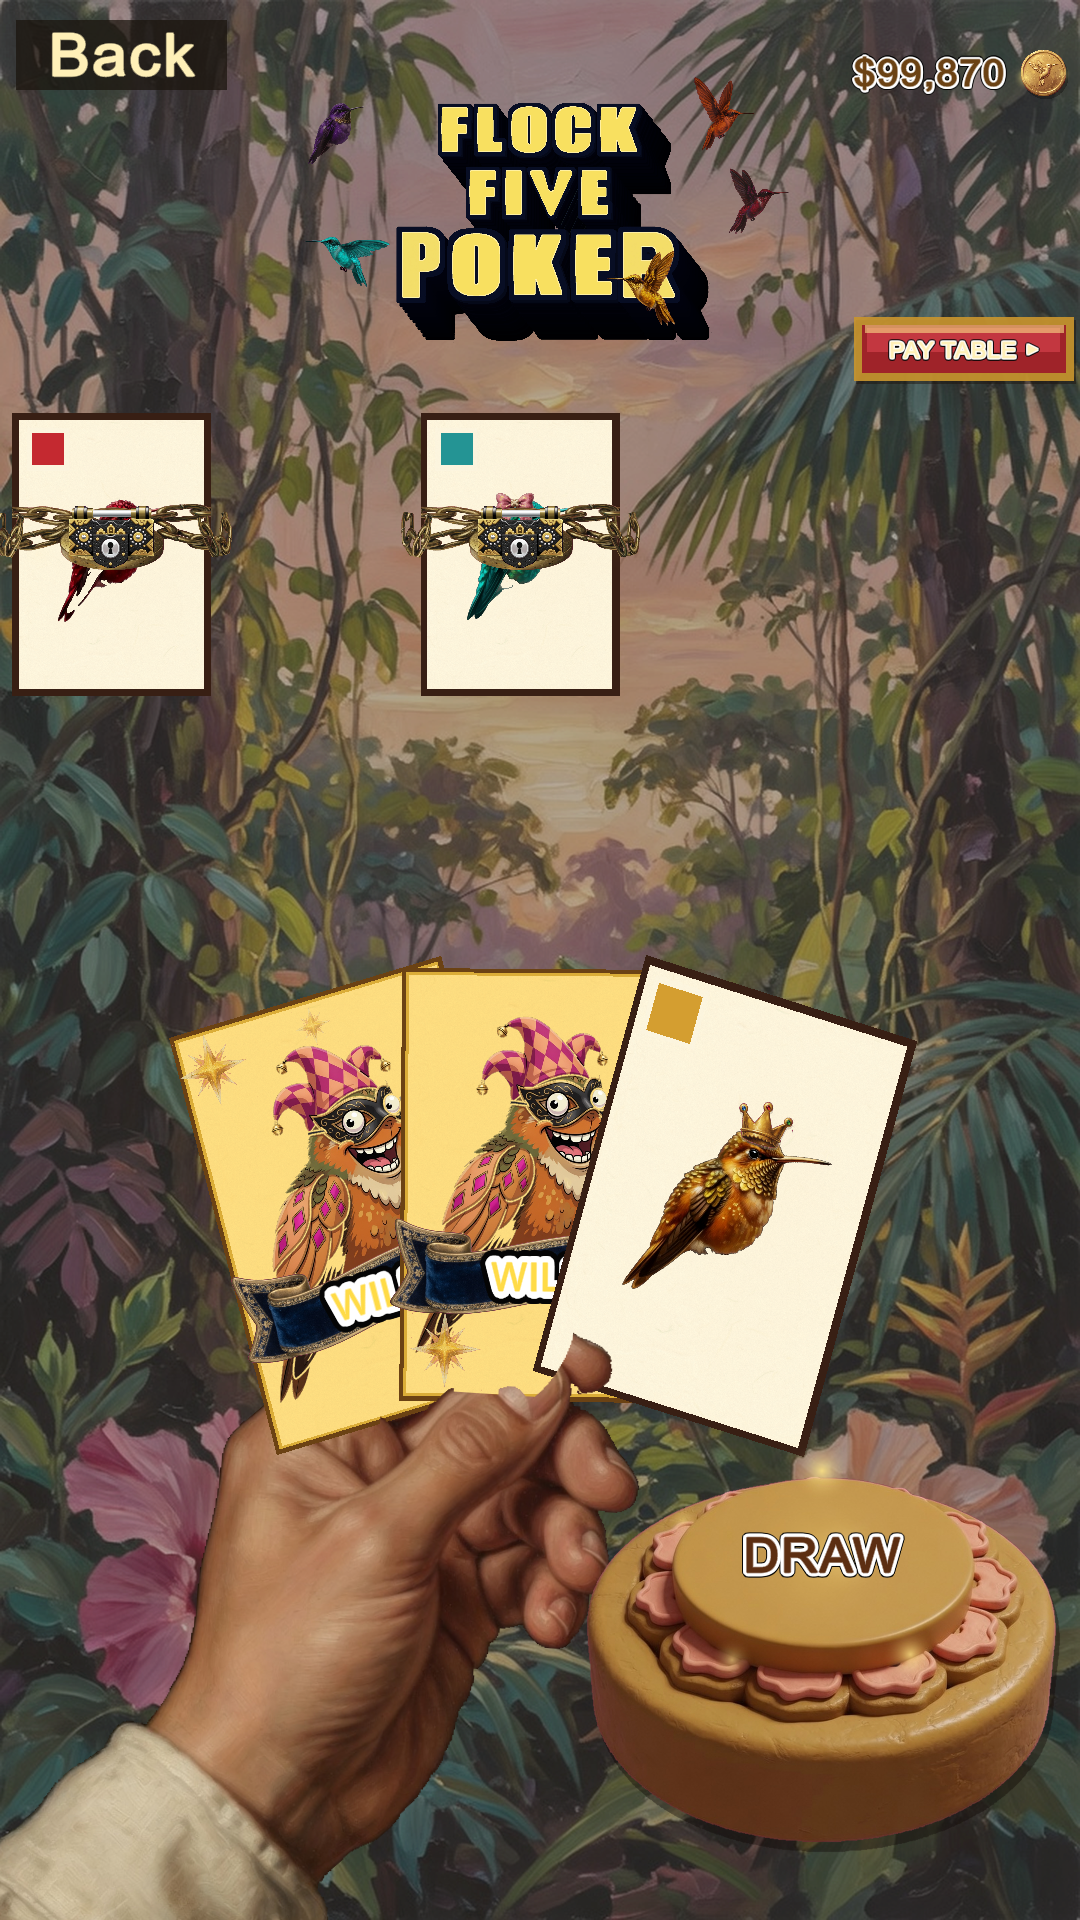
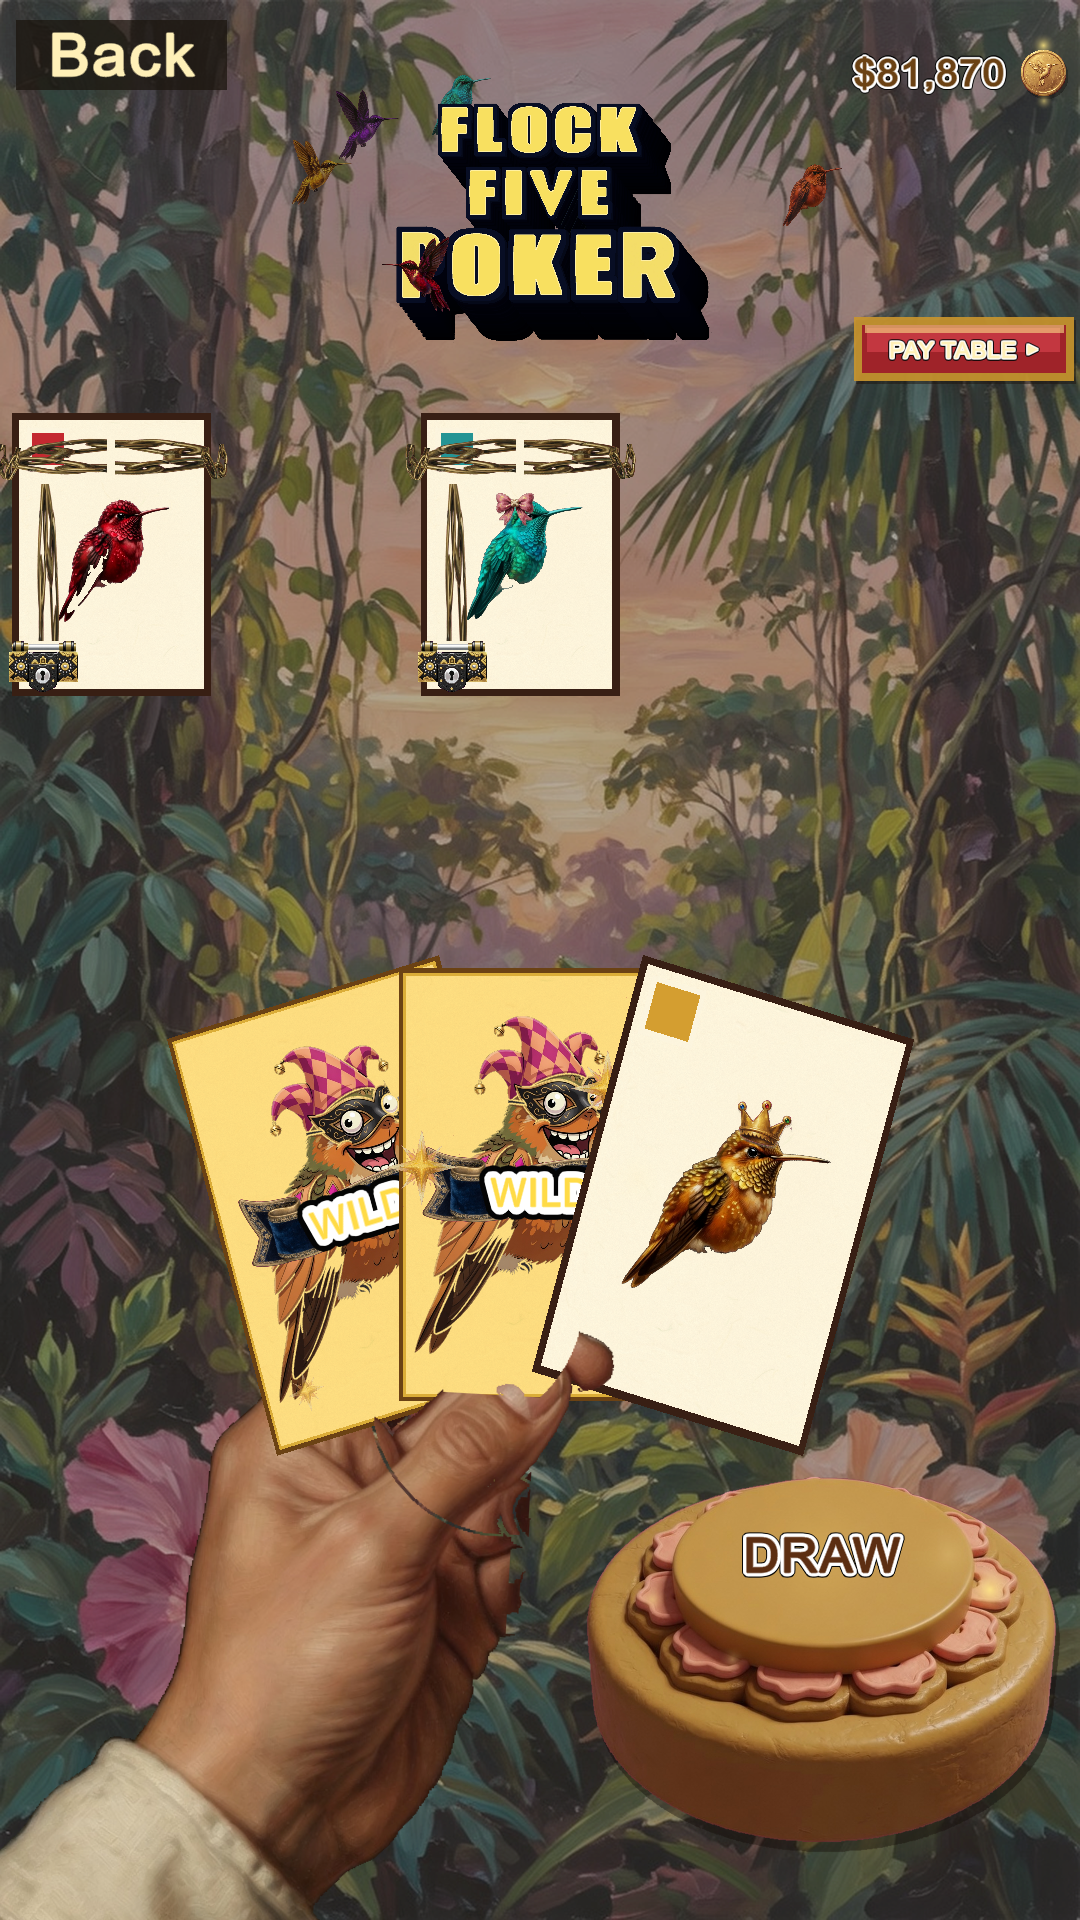
Poker: pass 6 — dangling lock at card foot, thumb always top
Chain wrap sits high; a hang drops left of WILD so the padlock
lands at the bottom edge. Wild ribbon stays mid-card and readable.
Back sprite is palm/sleeve only — other fingers stay behind the
packet. Front is the thumb pad, drawn last after every live card.
Sleeve dest still originates off the left/bottom. Avoid kept.

Playrun DONE 3/3, mid=0.

diff --git a/Assets/_Project/Scripts/App/FlockFiveApp.cs b/Assets/_Project/Scripts/App/FlockFiveApp.cs
@@ -1011,7 +1011,7 @@ namespace FlockFive
         {
             System.IO.Directory.CreateDirectory(dir);
             SpriteCatalog.DropPokerArt();
-            Debug.Log("Flock Five: ShotPokerFaces start " + dir + " pass5-locks-thumb-arm");
+            Debug.Log("Flock Five: ShotPokerFaces start " + dir + " pass6-dangle-thumb-top");
             _home = HomeFace.Poker;
             _splash = true;
             _pokerPayOpen = false;
@@ -4249,7 +4249,6 @@ namespace FlockFive
                     var seat = new Rect(rowX + i * (cardW + gap), rowY, cardW, cardH);
                     DrawPokerCard(seat, i, s, holdH, rowBox);
                 }
-                DrawPokerFanHand(rowBox, cardW, cardH, s, true);
                 for (int o = 0; o < order.Length; o++)
                 {
                     int i = order[o];
@@ -4260,6 +4259,8 @@ namespace FlockFive
                 DrawPokerKeepHint(rowBox, s);
                 DrawPokerFlames(rowBox, cardH, s);
                 DrawPokerDealHand(rowBox, cardW, cardH, s);
+                // Thumb last — pinching agent stays on top of every live fan card.
+                DrawPokerFanHand(rowBox, cardW, cardH, s, true);
             }
 
             float actX = Screen.width - Mathf.Max(10f, Screen.width - safe.xMax + 8f) - btnSize;
@@ -5423,14 +5424,14 @@ namespace FlockFive
             float x = pinchX - w * PokerFanPinchU;
             float y = pinchY - h * PokerFanPinchV + (1f - u) * h * 0.35f;
             // Sleeve originates off the left/bottom. Keep the pinch locked.
-            if (x > -6f)
+            if (x > -28f)
             {
-                w = (pinchX + 6f) / Mathf.Max(0.12f, PokerFanPinchU);
+                w = (pinchX + 28f) / Mathf.Max(0.12f, PokerFanPinchU);
                 h = w / PokerFanHandAspect;
                 x = pinchX - w * PokerFanPinchU;
                 y = pinchY - h * PokerFanPinchV + (1f - u) * h * 0.35f;
             }
-            float needH = (Screen.height + 10f - pinchY) / Mathf.Max(0.12f, 1f - PokerFanPinchV);
+            float needH = (Screen.height + 36f - pinchY) / Mathf.Max(0.12f, 1f - PokerFanPinchV);
             if (h < needH)
             {
                 h = needH;
@@ -5526,8 +5527,8 @@ namespace FlockFive
             if (!_pokerChained && _pokerChainBreak < 0f) return;
             var spr = SpriteCatalog.Chain;
             var tex = spr != null ? spr.texture : null;
-            float h = Mathf.Clamp(wrap.height * 0.24f, 24f * s, 44f * s);
-            float midY = wrap.y + wrap.height * 0.44f;
+            float h = Mathf.Clamp(wrap.height * 0.16f, 20f * s, 34f * s);
+            float midY = wrap.y + wrap.height * 0.18f;
             // End loops live behind the card; lock + inner links sit on the face.
             var back = new Rect(wrap.center.x - wrap.width * 0.68f, midY - h * 0.40f, wrap.width * 1.36f, h * 0.80f);
             var front = new Rect(wrap.x, midY - h * 0.50f, wrap.width, h);
@@ -5602,10 +5603,12 @@ namespace FlockFive
                 GUI.color = Color.white;
                 return;
             }
-            // Lock and inner links on the face — end loops stay on the back.
+            // High wrap — links only, skip the baked lock in the chain sheet.
             GUI.color = Color.white;
-            GUI.DrawTextureWithTexCoords(front, tex, new Rect(0.20f, 0f, 0.60f, 1f));
-            // Short links turning around each side, joining front to back.
+            var wrapL = new Rect(front.x, front.y, front.width * 0.48f, front.height);
+            var wrapR = new Rect(front.xMax - front.width * 0.48f, front.y, front.width * 0.48f, front.height);
+            GUI.DrawTextureWithTexCoords(wrapL, tex, new Rect(0.02f, 0f, 0.16f, 1f));
+            GUI.DrawTextureWithTexCoords(wrapR, tex, new Rect(0.82f, 0f, 0.16f, 1f));
             float sideH = front.height * 0.70f;
             float sideW = front.height * 0.62f;
             var prev = GUI.matrix;
@@ -5617,18 +5620,30 @@ namespace FlockFive
             GUIUtility.RotateAroundPivot(78f, new Vector2(card.xMax, front.center.y));
             GUI.DrawTextureWithTexCoords(right, tex, new Rect(0.82f, 0f, 0.16f, 1f));
             GUI.matrix = prev;
-            DrawPadlock(card, front.height);
+            // Dangle left of center so the hang misses the WILD letters.
+            float lockH = Mathf.Clamp(card.height * 0.18f, front.height * 0.9f, card.height * 0.22f);
+            float lockY = card.yMax - lockH - card.height * 0.012f;
+            float hangTop = front.yMax - front.height * 0.12f;
+            float hangH = Mathf.Max(8f, lockY - hangTop);
+            float hangW = card.width * 0.16f;
+            float hangX = card.x + card.width * 0.16f;
+            var hang = new Rect(hangX - hangH * 0.5f, hangTop + hangH * 0.5f - hangW * 0.5f, hangH, hangW);
+            GUIUtility.RotateAroundPivot(90f, new Vector2(hangX, hangTop + hangH * 0.5f));
+            GUI.DrawTextureWithTexCoords(hang, tex, new Rect(0.02f, 0f, 0.16f, 1f));
+            GUI.matrix = prev;
+            DrawPadlock(card, lockH, hangX);
         }
 
-        static void DrawPadlock(Rect card, float chainH)
+        static void DrawPadlock(Rect card, float chainH, float hangX = -1f)
         {
             var spr = SpriteCatalog.Padlock;
             if (spr == null || spr.texture == null) return;
-            float lockH = Mathf.Clamp(card.height * 0.22f, chainH * 0.92f, card.height * 0.26f);
+            float lockH = Mathf.Clamp(card.height * 0.18f, chainH * 0.85f, card.height * 0.22f);
             float lockW = lockH * 1.38f;
-            // Mid-face, above the wild ribbon (~0.72) so the lock does not cover WILD.
-            float y = card.y + card.height * 0.33f;
-            var lr = new Rect(card.center.x - lockW * 0.5f, y, lockW, lockH);
+            // Dangle: lock body toward the bottom edge, below the wild ribbon.
+            float y = card.yMax - lockH - card.height * 0.012f;
+            float x = hangX >= 0f ? hangX : card.x + card.width * 0.16f;
+            var lr = new Rect(x - lockW * 0.5f, y, lockW, lockH);
             DrawSprite(lr, spr, true);
         }
 
@@ -6061,13 +6076,13 @@ namespace FlockFive
 
         static void DrawWildBanner(Rect inner, float s, float phase, bool sheen = true)
         {
-            float bandH = Mathf.Max(22f * s, inner.height * 0.28f);
-            // Centered on the card; swallowtails may sprawl past the edges.
+            float bandH = Mathf.Max(20f * s, inner.height * 0.22f);
+            // Mid-card so a dangling lock at the foot leaves WILD readable.
             float breathe = 0.5f + 0.5f * Mathf.Sin(Time.unscaledTime * 1.15f + phase);
             float sprawl = sheen ? 1.02f + 0.06f * breathe : 1f;
             var prev = GUI.matrix;
             float bandW = inner.width * 2.08f;
-            float bandY = inner.y + inner.height * 0.72f - bandH * 0.5f;
+            float bandY = inner.y + inner.height * 0.52f - bandH * 0.5f;
             var band = new Rect(inner.center.x - bandW * 0.5f, bandY, bandW, bandH);
             GUIUtility.ScaleAroundPivot(new Vector2(sprawl, 1f), band.center);
             var spr = SpriteCatalog.WildBanner;
